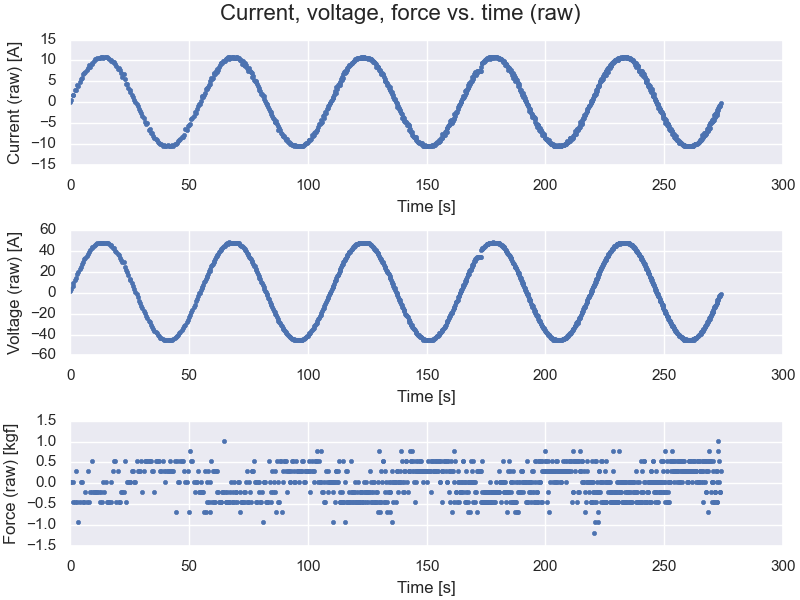
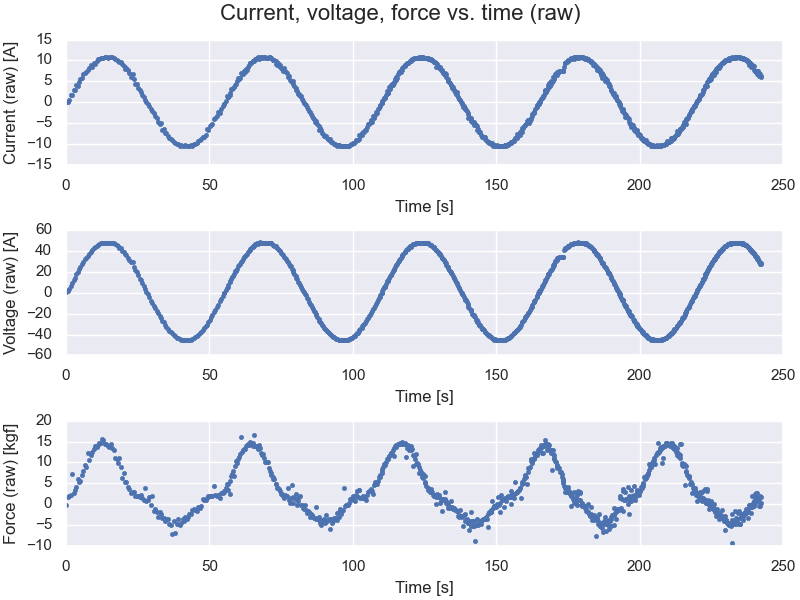
Modified code such that delay time is taken into account

diff --git a/main.py b/main.py
@@ -41,7 +41,7 @@ ct_file_r = "\\ct_r.png"
 ts_overlapped_file = "\\ts_overlayed.png"
 voltage_fit_file = "\\vfitted_vs_vraw.png"
 fig_folder = "\\figures"
-show_line = True # change to True if you want to show maximums and minimums on the overlayed chart 
+show_line = False # change to True if you want to show maximums and minimums on the overlayed chart 
 
 ### Read .log file, handling invalid user input ###
 data_file = user_in("Enter data file path: ")
@@ -62,23 +62,36 @@ force = []; current = []; voltage = []; time = []; time2 = []; force_avg = []
 force_zero = 0
 line = 0
 current_line = lines[line].split()
+start_test = False
 # Once the delay time gets added to the text file I can make the force averaging/background value skipping more efficient
 while "<end" not in current_line and line < len(lines):
+    if start_test: # Get data points for force, current voltage, ignore values recorded during test delay (5 seconds)
+        h,m,s = current_line[1].split(':') # get seconds value corresponding to <timestamp> - 00:00:00.000
+        if (float(h) * 3600 + float(m) * 60 + float(s)) - time_zero > test_delay:
+            force_zero = np.mean(np.array(force_avg))
+            time.append(float(h) * 3600 + float(m) * 60 + float(s)) # time is a list containing floating point second values 
+            force.append(float(current_line[2]) - force_zero) # compute all force values wrt the pre-loaded value
+            current.append(float(current_line[3]))
+            voltage.append(float(current_line[5]))
+        else: # During test delay period, get an average for the initial pre-loaded force value
+            force_avg.append(float(current_line[2]))
     if lines[line].startswith("#Scaling_Factor"): # Get scaling factors
         sf = lines[line].split()[1:6]
         sf_force = float(sf[0])
         sf_current = float(sf[1])
         sf_voltage = float(sf[3])
         lever_arm_ratio = float(sf[4]) 
-    elif line >= 18: # Get data points for force, current voltage, ignore values recorded during test delay (5 seconds)
-        h,m,s = current_line[1].split(':') # get seconds value corresponding to <timestamp> - 00:00:00.000
-        time.append(float(h) * 3600 + float(m) * 60 + float(s)) # time is a list containing floating point second values 
-        force.append(float(current_line[2]) - force_zero) # compute all force values wrt the pre-loaded value
-        current.append(float(current_line[3]))
-        voltage.append(float(current_line[5]))
-    elif 5 < line < 18: # During test delay period, get an average for the initial pre-loaded force value
-        force_avg.append(float(current_line[2]))
-        force_zero = np.mean(np.array(force_avg))
+    elif lines[line].startswith("#Test_parameters"): # Get sine test parameters
+        test_params = current_line
+        test_freq = float(test_params[1])
+        test_delay = float(test_params[2])
+        test_periods = float(test_params[3]) 
+        test_phase = float(test_params[4])
+        test_amp = float(test_params[5])
+    elif "<begin" in current_line: # Start collecting data
+        h,m,s = current_line[1].split(':')
+        time_zero = float(h) * 3600 + float(m) * 60 + float(s)
+        start_test = True
     line += 1
     current_line = lines[line].split()
 
@@ -111,7 +124,7 @@ axt[2].plot(df_data.index, df_data["Force"], '.') # Force/thrust vs. time scatte
 axt[2].set_ylabel("Force (raw) [kgf]")
 
 ### Curve fitting, syncing and period overlappying for time series, using voltage data as the reference "clock" ###
-popt, pcov = curve_fit(sin_func, time, voltage, p0=(np.max(voltage), 1.0 / 55.0)) # approximate voltage data to a sine curve
+popt, pcov = curve_fit(sin_func, time, voltage, p0=(np.max(voltage), 1/55)) # approximate voltage data to a sine curve
 fitted_amp = popt[0]
 fitted_freq = popt[1]
 fitted_period = 1 / fitted_freq
@@ -174,16 +187,16 @@ df_extrema = pd.DataFrame({"Max forward": peaks, "Max reverse": troughs}, index 
 
 # Graph peak values on plot of overlapped data
 if show_line:
-    v_max = np.full_like(np.arange(int(len(v_avg) / 2), dtype = float), peaks[2])
-    v_min = np.full_like(np.arange(int(len(v_avg) / 2), dtype = float), troughs[2])
-    i_max = np.full_like(np.arange(int(len(i_avg) / 2), dtype = float), peaks[1])
-    i_min = np.full_like(np.arange(int(len(i_avg) / 2), dtype = float), troughs[1])
-    T_max = np.full_like(np.arange(int(len(T_avg) / 2), dtype = float), peaks[0])
-    T_min = np.full_like(np.arange(int(len(T_avg) / 2), dtype = float), troughs[0])
+    v_max = np.full_like(np.arange(int(len(v_avg)), dtype = float), peaks[2])
+    v_min = np.full_like(np.arange(int(len(v_avg)), dtype = float), troughs[2])
+    i_max = np.full_like(np.arange(int(len(i_avg)), dtype = float), peaks[1])
+    i_min = np.full_like(np.arange(int(len(i_avg)), dtype = float), troughs[1])
+    T_max = np.full_like(np.arange(int(len(T_avg)), dtype = float), peaks[0])
+    T_min = np.full_like(np.arange(int(len(T_avg)), dtype = float), troughs[0])
 
-    ax_sync.plot(t[0:int(len(t) / 2)], v_max, '.', label = "Voltage maximum"); ax_sync.plot(t[int(len(t) / 2):int(len(t))], -v_min, '.', label = "Voltage minimum")
-    ax_sync.plot(t[0:int(len(t) / 2)], i_max, '.', label = "Current maximum"); ax_sync.plot(t[int(len(t) / 2):int(len(t))], -i_min, '.', label = "Current minimum")
-    ax_sync.plot(t[0:int(len(t) / 2)], T_max, '.', label = "Thrust maximum"); ax_sync.plot(t[int(len(t) / 2):int(len(t))], -T_min, '.', label = "Thrust minimum")
+    ax_sync.plot(t[0:int(len(t) / 2)], v_max[0:int(len(t) / 2)], '.', label = "Voltage maximum"); ax_sync.plot(t[int(len(t) / 2):int(len(t))], -v_min[int(len(t) / 2):int(len(t))], '.', label = "Voltage minimum")
+    ax_sync.plot(t[0:int(len(t) / 2)], i_max[0:int(len(t) / 2)], '.', label = "Current maximum"); ax_sync.plot(t[int(len(t) / 2):int(len(t))], -i_min[int(len(t) / 2):int(len(t))], '.', label = "Current minimum")
+    ax_sync.plot(t[0:int(len(t) / 2)], T_max[0:int(len(t) / 2)], '.', label = "Thrust maximum"); ax_sync.plot(t[int(len(t) / 2):int(len(t))], -T_min[int(len(t) / 2):int(len(t))], '.', label = "Thrust minimum")
 
     # Plot vertical line at the time intersection of max values for voltage and current
     ax_sync.plot(np.full_like(np.arange(int(len(v_avg)), dtype = float), t[np.argmax(v_avg)]), v_avg, '.')
@@ -217,7 +230,7 @@ slope, intercept, r, p, std_err = stats.linregress(current_f, thrust_f)
 m_f = slope; b_f = intercept; r_f = r
 
 def ct_line(current):
-  return slope * current + intercept
+    return slope * current + intercept
 
 mymodel_f = list(map(ct_line, current_f))
 
@@ -275,5 +288,4 @@ with open(my_path + data_folder + "\\stats.txt", mode = 'w') as file_object:
 
 ### Display all plots, data of interest -> last action in program, since plt.show() stalls execution ###
 #plt.show() 
-
 
